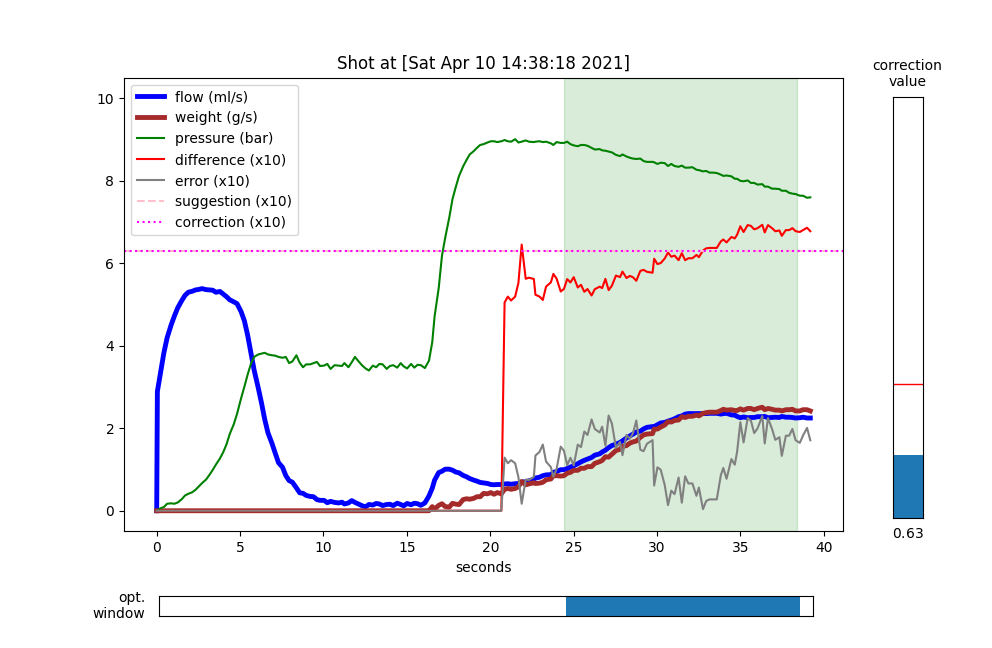
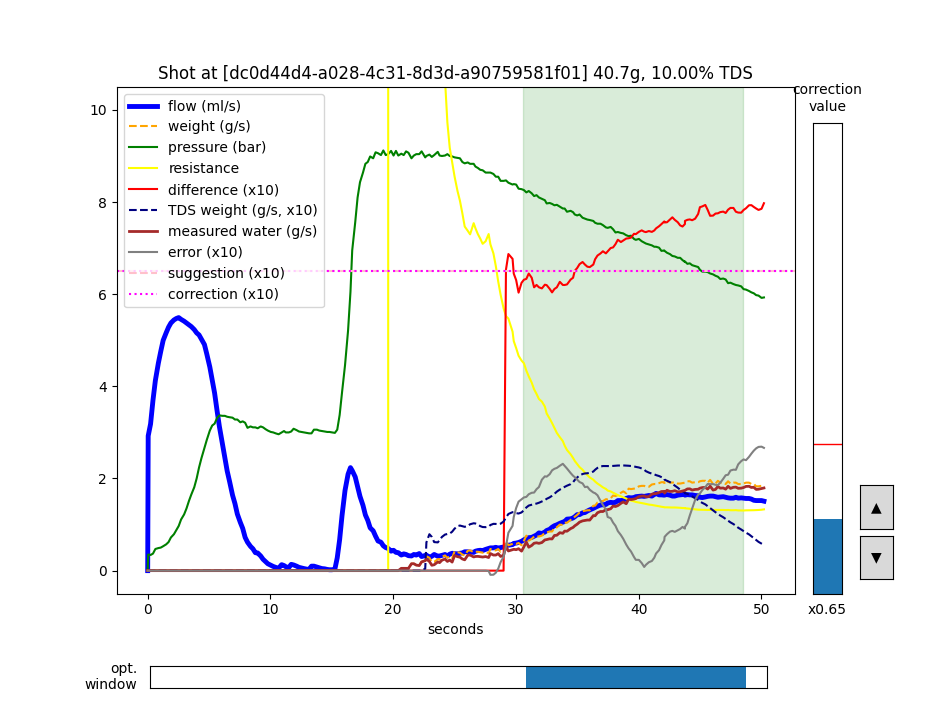
Some guide

diff --git a/README.md b/README.md
@@ -1,15 +1,55 @@
 # de1-flow-calibration-estimation
-``` 
-(venv) de1-flow-calibration-estimation> python -m flowcorrection
-```
-Pick a shot file in the dialog, done!
 
-Sample shot files are in the example directory.
+Use python 3.8+ with following packages:
+- matplotlib
+- scipy
+- numpy
+- esprima
+- requests
+
+``` 
+(venv) de1-flow-calibration-estimation> python -m flowcorrection [-h] [--visualizer [VISUALIZER_URL] | --file [FILE]]
+```
+- `--visualizer [URL]`: specify shot URL on the visualizer site (or will be asked) 
+- `--file [PATH]`: specify a shot file (or will be asked)
+- or without any option: you'll be asked to pick a shot file
+
+Sample shots are available in the example directory.
+
+## Simple (or maybe too verbose) Guide
+
+Pick a shot that meets following requirements:
+- It has the weight data measured from a BT scale
+- It came from an actual coffee extraction
+  (<span style="font-weight:bold">not from like a calibration basket</span>),
+- And it was stable without a massive channeling or so
+- It has a pressure declining stage towards the end
+  - "Londinium style" profile is usually a good choice (as shown in the screenshot below)
+- Or, at least, can be considered a simple and neat "fully saturate, then squeeze" style shot
+  - no pause in the middle
+  - reasonably good pressure during the extraction  
 
 ![flowcorrection](figure.png)
 
-Move window slider (horizontal one) to desired position, then adjust correction slider (vertical one) to see if corrected flow well-fits measured weight within the window.
+1. Move optimization window slider (horizontal one) to desired position
+    - Typical GOOD region to include: where you think the extraction is stable
+      - 3 bars < pressure < 9 bars
+      - 1 ml/s < flow < 4 ml/s
+    - Typical BAD region to include:
+      - coffee just began dropping
+      - flow or weight value is spiking
+      - pressure is too low (like under 2 bars)
+      - flow is too low (like under 1 ml/s)
 
-Use the correction value just found as a starting point finding flow calibration value in the DE1 app.
+1. Suggested correction value(<span style="color:pink;font-weight:bold">horizontal pink line</span>)
+   also changes as you adjust the optimization window
+   
+1. Then adjust correction slider (vertical one) to see if <span style="color:blue;font-weight:bold">corrected flow</span>
+   well-fits <span style="color:brown;font-weight:bold">measured weight</span> within the window
+   - <span style="color:magenta;font-weight:bold">Correction line</span>
+    also moves as you adjust the correction value
+   - So, first, try to move <span style="color:magenta;font-weight:bold">correction line</span>
+     closer to the <span style="color:pink;font-weight:bold">suggestion line</span>
+   ![move_correction_line](figure_correction.png)   
 
-Hope this would help!
+1. Use the correction value just found as a starting point finding flow calibration value in the DE1 app.
